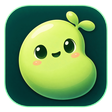
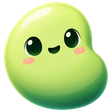
chore: 豆形象分层源图与切层脚本，SPRITES.md 补 eyes/mouth 层说明
- assets/branding/ 收源图与 cut/split 脚本，bean-icon 换新豆

diff --git a/assets/branding/split-bean-layers.py b/assets/branding/split-bean-layers.py
@@ -1,0 +1,261 @@
+#!/usr/bin/env python3
+"""把绿豆立绘拆成固件内置 sprite 的分层素材（docs/SPRITES.md 格式的第一个实例）。
+
+输入 assets/branding/bean-cut.png（方形透明底抠图），输出：
+  - bean-body.png           112x112，眼/嘴被修掉的身体层（头顶缺口折痕保留）
+  - bean-eyes-open.png / bean-eyes-closed.png   双眼合一层，两帧同尺寸
+  - bean-mouth-closed.png / bean-mouth-open.png 嘴层，两帧同尺寸
+  - 固件 C 资产 img_sprite_bean.c（ARGB8888，与 img_app_vibe 同格式）
+  - stdout 打印 112 基准坐标（供固件内置 manifest 使用）
+
+检测：轮廓内缩后按暗度做连通域——两个最大的暗块是眼睛，其下最大的暗块是嘴，
+其余暗色细节（头顶缺口折痕等）归身体层。层素材按缩放后的真实位置/尺寸输出，
+不居中补边，保证与身体层逐像素对齐。
+"""
+from collections import deque
+from pathlib import Path
+
+from PIL import Image, ImageDraw, ImageFilter
+
+ROOT = Path(__file__).resolve().parent
+SRC = ROOT / 'bean-cut.png'
+OUT_C = ROOT.parent.parent / 'made' / 'components' / 'brookesia_app_vibe' / 'assets' / 'img_sprite_bean.c'
+OUT_H = ROOT.parent.parent / 'made' / 'components' / 'brookesia_app_vibe' / 'assets' / 'img_sprite_bean.h'
+BASIS = 112
+
+im = Image.open(SRC).convert('RGBA')
+w, h = im.size
+px = im.load()
+interior = im.getchannel('A').filter(ImageFilter.MinFilter(31))
+ipx = interior.load()
+
+def is_dark(x, y):
+    r, g, b, a = px[x, y]
+    return a > 128 and r < 80 and g < 100 and b < 80 and ipx[x, y] > 200
+
+pts = {(x, y) for y in range(h) for x in range(w) if is_dark(x, y)}
+blobs = []
+while pts:
+    seed = next(iter(pts))
+    q, blob = [seed], []
+    pts.discard(seed)
+    while q:
+        c = q.pop()
+        blob.append(c)
+        x, y = c
+        for n in ((x - 1, y), (x + 1, y), (x, y - 1), (x, y + 1)):
+            if n in pts:
+                pts.discard(n)
+                q.append(n)
+    blobs.append(blob)
+blobs.sort(key=len, reverse=True)
+assert len(blobs) >= 3, f'暗块太少：{len(blobs)}'
+
+def bbox(points, pad=0):
+    xs = [p[0] for p in points]
+    ys = [p[1] for p in points]
+    return (max(0, min(xs) - pad), max(0, min(ys) - pad),
+            min(w, max(xs) + pad), min(h, max(ys) + pad))
+
+def median_color(points):
+    ch = [[px[x, y][i] for x, y in points] for i in range(3)]
+    m = len(points) // 2
+    return tuple(sorted(c)[m] for c in ch)
+
+eyes = blobs[0], blobs[1]
+assert all(max(p[1] for p in b) < h * 0.55 for b in eyes), '眼睛不在上半部，检测可疑'
+below = [b for b in blobs[2:] if sum(p[1] for p in b) / len(b) > max(p[1] for p in eyes[0] + eyes[1]) * 1.15]
+assert below, '没找到嘴'
+mouth = max(below, key=len)
+eye_pad = (bbox(eyes[0])[2] - bbox(eyes[0])[0]) // 8
+mouth_pad = max(4, (bbox(mouth)[2] - bbox(mouth)[0]) // 6)
+eyes_box = bbox(eyes[0] + eyes[1], eye_pad)
+mouth_box = bbox(mouth, mouth_pad)
+eye_color = median_color(eyes[0])
+mouth_color = median_color(mouth)
+print('eyes bbox', eyes_box, 'eye color', eye_color)
+print('mouth bbox', mouth_box, 'mouth color', mouth_color)
+
+def luminance(p):
+    return 0.299 * p[0] + 0.587 * p[1] + 0.114 * p[2]
+
+face_samples = [px[max(0, eyes_box[0] - 20), eyes_box[1] + 20], px[min(w - 1, eyes_box[2] + 20), eyes_box[3] - 20]]
+face_l = sum(luminance(p) for p in face_samples) / len(face_samples)
+
+# 特征掩膜：blob 像素膨胀 4px，框内亮度低于脸的 AA 边缘一并算入。
+def feature_mask(box, blobs_):
+    x0, y0, x1, y1 = box
+    mask = Image.new('L', (x1 - x0, y1 - y0), 0)
+    mpx = mask.load()
+    for blob in blobs_:
+        for x, y in blob:
+            if x0 <= x < x1 and y0 <= y < y1:
+                for dy in range(-4, 5):
+                    for dx in range(-4, 5):
+                        mx, my = x - x0 + dx, y - y0 + dy
+                        if 0 <= mx < mask.width and 0 <= my < mask.height:
+                            mpx[mx, my] = 255
+    return mask
+
+def inpaint(box, blobs_):
+    x0, y0, x1, y1 = box
+    mask = feature_mask(box, blobs_)
+    mpx = mask.load()
+    for y in range(max(0, y0 - 4), min(h, y1 + 4)):
+        for x in range(max(0, x0 - 4), min(w, x1 + 4)):
+            in_mask = x0 <= x < x1 and y0 <= y < y1 and mpx[x - x0, y - y0] > 60
+            if not in_mask:
+                continue
+            fill = None
+            for dx in range(1, w):
+                for cand in (x - dx, x + dx):
+                    if 0 <= cand < w and px[cand, y][3] > 128 and luminance(px[cand, y]) > face_l - 90:
+                        fill = px[cand, y][:3]
+                        break
+                if fill:
+                    break
+            if fill:
+                bpx[x, y] = (*fill, 255)
+
+body = im.copy()
+bpx = body.load()
+inpaint(eyes_box, eyes)
+inpaint(mouth_box, [mouth])
+
+# ---- 眼/嘴层：掩膜内亮度差 → alpha 抠色（保证 AA 边缘平滑） ----------------
+def blank(box):
+    return Image.new('RGBA', (box[2] - box[0], box[3] - box[1]), (0, 0, 0, 0))
+
+def cutout(box, blobs_, blob_color, drawer=None, keep_source=True):
+    layer = blank(box) if not keep_source else blank(box)
+    if keep_source:
+        src = im.crop(box)
+        spx, lpx = src.load(), layer.load()
+        mask = feature_mask(box, blobs_)
+        mpx = mask.load()
+        lo = luminance(blob_color)
+        for y in range(layer.height):
+            for x in range(layer.width):
+                if mpx[x, y] <= 60:
+                    continue
+                p = spx[x, y]
+                if p[3] < 40:
+                    continue
+                a = (face_l - luminance(p)) / max(1.0, face_l - lo)
+                alpha = max(0, min(255, int(a * 255)))
+                if alpha > 8:
+                    lpx[x, y] = (*blob_color, alpha)
+    if drawer:
+        drawer(layer)
+    return layer
+
+def closed_eyes(layer):
+    """闭眼：每只眼下缘一条下弯弧线，宽度与眼簇同宽。"""
+    d = ImageDraw.Draw(layer)
+    for blob in eyes:
+        bx0, by0, bx1, by1 = bbox(blob)
+        x0, y0 = bx0 - eyes_box[0], by0 - eyes_box[1]
+        x1, y1 = bx1 - eyes_box[0], by1 - eyes_box[1]
+        width = max(3, (x1 - x0) // 7)
+        d.line([(x0 + width, y0 + (y1 - y0) // 4), ((x0 + x1) // 2, y1 - width // 2),
+                (x1 - width, y0 + (y1 - y0) // 4)],
+               fill=(*eye_color, 255), width=width, joint='curve')
+
+def open_mouth(layer):
+    """张嘴：原嘴形纵向拉伸的实心椭圆，中心与闭嘴一致。"""
+    mw, mh = layer.width, layer.height
+    d = ImageDraw.Draw(layer)
+    cx, cy = mw / 2, mh / 2
+    d.ellipse([mw * 0.08, cy - mh * 1.05, mw * 0.92, cy + mh * 1.05],
+              fill=(*mouth_color, 255))
+
+eyes_open = cutout(eyes_box, eyes, eye_color)
+eyes_closed = cutout(eyes_box, eyes, eye_color, closed_eyes, keep_source=False)
+mouth_closed = cutout(mouth_box, [mouth], mouth_color)
+mouth_open = cutout(mouth_box, [mouth], mouth_color, open_mouth, keep_source=False)
+
+# ---- 缩到 112 基准：身体层整图 contain；特征层按真实位置缩放（不补边） ----
+def resize_scaled(img):
+    k = BASIS / max(w, h)
+    return img.resize((max(1, round(img.width * k)), max(1, round(img.height * k))),
+                      Image.Resampling.LANCZOS), k
+
+body112, _ = resize_scaled(body)          # 方图 → 112x112
+eyes_open112, _ = resize_scaled(eyes_open)
+eyes_closed112, _ = resize_scaled(eyes_closed)
+mouth_closed112, _ = resize_scaled(mouth_closed)
+mouth_open112, _ = resize_scaled(mouth_open)
+
+for name, img in [('bean-body.png', body112), ('bean-eyes-open.png', eyes_open112),
+                  ('bean-eyes-closed.png', eyes_closed112), ('bean-mouth-closed.png', mouth_closed112),
+                  ('bean-mouth-open.png', mouth_open112)]:
+    img.save(ROOT / name)
+    print(name, img.size, f'{len(img.tobytes("raw", "BGRA"))} bytes')
+
+def scale_box(box):
+    k = BASIS / max(w, h)
+    return tuple(round(v * k) for v in box)
+
+print('LAYER_POS eyes', scale_box(eyes_box), eyes_open112.size)
+print('LAYER_POS mouth', scale_box(mouth_box), mouth_closed112.size)
+
+# 预览图：按真实位置叠 body + 闭眼 + 闭嘴，人工核对对齐用
+preview = Image.new('RGBA', (BASIS, BASIS), (235, 235, 235, 255))
+def paste(canvas, img, box):
+    k = BASIS / max(w, h)
+    canvas.alpha_composite(img, (round(box[0] * k), round(box[1] * k)))
+preview.alpha_composite(body112)
+paste(preview, eyes_open112, eyes_box)
+paste(preview, mouth_closed112, mouth_box)
+preview.save(ROOT / 'bean-layers-preview.png')
+preview_closed = Image.new('RGBA', (BASIS, BASIS), (235, 235, 235, 255))
+preview_closed.alpha_composite(body112)
+paste(preview_closed, eyes_closed112, eyes_box)
+paste(preview_closed, mouth_open112, mouth_box)
+preview_closed.save(ROOT / 'bean-layers-preview-closed.png')
+
+# ---- 固件 C 资产 ------------------------------------------------------------
+def c_descriptor(var, img):
+    pixels = img.tobytes('raw', 'BGRA')
+    rows = ['    ' + ', '.join(f'0x{b:02x}' for b in pixels[i:i + 24]) + ','
+            for i in range(0, len(pixels), 24)]
+    return ('\n'.join(rows),
+            f'const lv_image_dsc_t {var} = {{\n'
+            f'    .header.cf = LV_COLOR_FORMAT_ARGB8888,\n'
+            f'    .header.magic = LV_IMAGE_HEADER_MAGIC,\n'
+            f'    .header.w = {img.width},\n'
+            f'    .header.h = {img.height},\n'
+            f'    .header.stride = {img.width} * 4,\n'
+            f'    .data_size = sizeof({var}_map),\n'
+            f'    .data = {var}_map,\n'
+            f'}};\n')
+
+parts_out, desc_out = [], []
+for var, img in [('img_bean_body', body112), ('img_bean_eyes_open', eyes_open112),
+                 ('img_bean_eyes_closed', eyes_closed112), ('img_bean_mouth_closed', mouth_closed112),
+                 ('img_bean_mouth_open', mouth_open112)]:
+    maps, desc = c_descriptor(var, img)
+    parts_out.append(f'const uint8_t {var}_map[] = {{\n{maps}\n}};\n')
+    desc_out.append(desc)
+
+eyes_pos = scale_box(eyes_box)
+mouth_pos = scale_box(mouth_box)
+OUT_H.write_text(
+    '// SPDX-License-Identifier: Apache-2.0\n'
+    '// Generated by assets/branding/split-bean-layers.py. 内置绿豆 sprite 的\n'
+    '// 特征层坐标（112 基准，相对完整画布左上角）；固件内置 manifest 使用。\n'
+    '#pragma once\n\n'
+    f'#define IMG_BEAN_BASIS {BASIS}\n'
+    f'#define IMG_BEAN_EYES_X {eyes_pos[0]}\n'
+    f'#define IMG_BEAN_EYES_Y {eyes_pos[1]}\n'
+    f'#define IMG_BEAN_MOUTH_X {mouth_pos[0]}\n'
+    f'#define IMG_BEAN_MOUTH_Y {mouth_pos[1]}\n',
+    encoding='utf-8')
+
+OUT_C.write_text(
+    '// SPDX-License-Identifier: Apache-2.0\n'
+    '// Generated by assets/branding/split-bean-layers.py. 内置绿豆 sprite 的分层\n'
+    '// 素材（body / eyes 两帧 / mouth 两帧），与第三方助手走同一条素材管线。\n'
+    '#include "lvgl.h"\n\n' + '\n'.join(parts_out) + '\n' + '\n'.join(desc_out),
+    encoding='utf-8')
+print('wrote', OUT_C)

diff --git a/assets/branding/cut-bean.py b/assets/branding/cut-bean.py
@@ -1,0 +1,82 @@
+#!/usr/bin/env python3
+"""从 imagegen 生成的棋盘格假透明图里抠出绿豆。
+
+背景 = 与图像边缘连通的低饱和灰白像素（棋盘格 + 水印），
+豆身绿色饱和度高，泛洪不会漏入； cream 高光在豆内部不与边缘连通。
+输出裁剪到豆 bbox（含 2% padding）的 PNG 与眼位比例。
+"""
+from collections import deque
+from pathlib import Path
+
+from PIL import Image
+
+SRC = Path('/Users/myidd007/My project/made/generated-images/Edit_this_exact_app_icon_artwo_2026-10-12T15-42-38.png')
+OUT = Path('/Users/myidd007/My project/made/assets/branding/bean-cut.png')
+
+im = Image.open(SRC).convert('RGBA')
+w, h = im.size
+px = im.load()
+
+
+def background(x, y):
+    r, g, b, _ = px[x, y]
+    return max(r, g, b) - min(r, g, b) < 22
+
+
+mask = bytearray(w * h)
+queue = deque()
+for x in range(w):
+    for y in (0, h - 1):
+        if background(x, y) and not mask[y * w + x]:
+            mask[y * w + x] = 1
+            queue.append((x, y))
+for y in range(h):
+    for x in (0, w - 1):
+        if background(x, y) and not mask[y * w + x]:
+            mask[y * w + x] = 1
+            queue.append((x, y))
+while queue:
+    x, y = queue.popleft()
+    for nx, ny in ((x - 1, y), (x + 1, y), (x, y - 1), (x, y + 1)):
+        if 0 <= nx < w and 0 <= ny < h and not mask[ny * w + nx] and background(nx, ny):
+            mask[ny * w + nx] = 1
+            queue.append((nx, ny))
+
+for y in range(h):
+    for x in range(w):
+        if mask[y * w + x]:
+            r, g, b, a = px[x, y]
+            px[x, y] = (r, g, b, 0)
+
+bbox = im.getbbox()
+pad = int((bbox[2] - bbox[0]) * 0.02)
+box = (max(0, bbox[0] - pad), max(0, bbox[1] - pad),
+       min(w, bbox[2] + pad), min(h, bbox[3] + pad))
+cut = im.crop(box)
+cut.save(OUT)
+bw, bh = cut.size
+cp = cut.load()
+
+eye_pixels = [[], []]
+dark = []
+for y in range(bh):
+    for x in range(bw):
+        r, g, b, a = cp[x, y]
+        if a > 200 and r < 70 and g < 90 and b < 70:
+            dark.append((x, y))
+cx = bw / 2
+for x, y in dark:
+    if y < bh * 0.45:
+        eye_pixels[0 if x < cx else 1].append((x, y))
+
+
+def centroid(points):
+    n = len(points)
+    return (sum(p[0] for p in points) / n, sum(p[1] for p in points) / n)
+
+
+left = centroid(eye_pixels[0])
+right = centroid(eye_pixels[1])
+print(f'bbox_px={bw}x{bh}')
+print(f'eye_left_frac=({left[0] / bw:.4f},{left[1] / bh:.4f})')
+print(f'eye_right_frac=({right[0] / bw:.4f},{right[1] / bh:.4f})')

diff --git a/docs/SPRITES.md b/docs/SPRITES.md
@@ -17,6 +17,13 @@
 | 1 | agent 插件包的 `sprite/` | 本文规范的主体；版本号变化即重新拉取 |
 | 2 | 固件内置兜底形象 | 未连接桥接器、包里没带 sprite、或素材拉取失败时显示 |
 
+**内置兜底形象（绿豆）就是本格式的第一个实例**：它由
+`assets/branding/split-bean-layers.py` 把立绘拆成 body / eyes(两帧) / mouth(两帧)
+编进固件（`img_sprite_bean.c` + 坐标头文件），与下发的素材走同一条提交与驱动
+管线。固件里没有任何写死的五官坐标——眨眼/说话都是特征层切帧，眼位来自
+manifest 的 `x`/`y`。给任何新助手做形象，照本文规范提供分层 PNG 即可，
+不需要碰固件。
+
 主题插件的配色仍作用于界面底色和文字；旧主题包 `lock.*` 资产的兼容处理见
 [vibe_theme](../made/components/vibe_theme/vibe_theme.cpp)。
 
@@ -36,6 +43,17 @@
 ```
 
 `sprite/` 目录**可选**。没有它，这个助手用固件内置兜底形象。
+
+## 最小可用与推荐分层
+
+- **最小可用**：只有一层 `body`（一张完整立绘）。能动（呼吸/轻摆/情绪节奏），
+  但不会眨眼、不会张嘴——适合快速验证
+- **推荐**：`body` + `eyes`（open/closed 两帧）+ `mouth`（closed/open 两帧）。
+  眨眼 = 固件按 `blink.period_ms` 切换 eyes 层的两帧；说话 = 按 `talk` 切换
+  mouth 层两帧。**位置全部由 manifest 的 `x`/`y` 声明，固件零写死坐标**
+- 内置绿豆就是这么拆的，可作为拆层参考：
+  `assets/branding/split-bean-layers.py`（含把平涂风格立绘自动拆层的做法：
+  暗色连通域找五官 → 修平进 body → 特征抠成两帧）
 
 ## manifest.json schema
 
